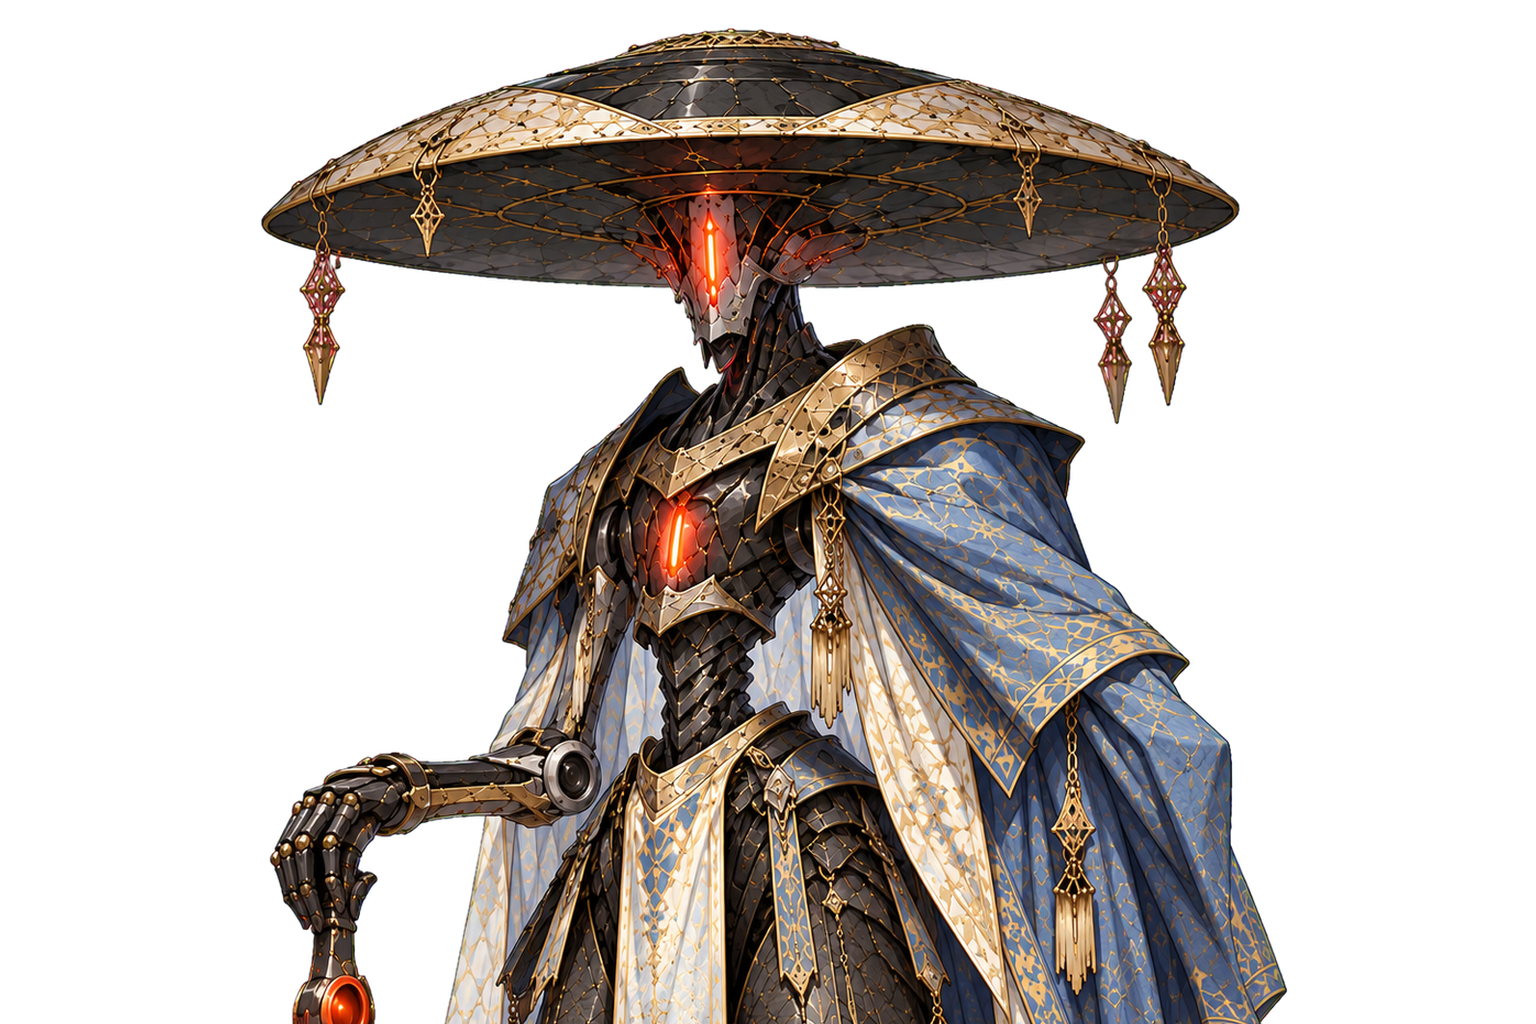
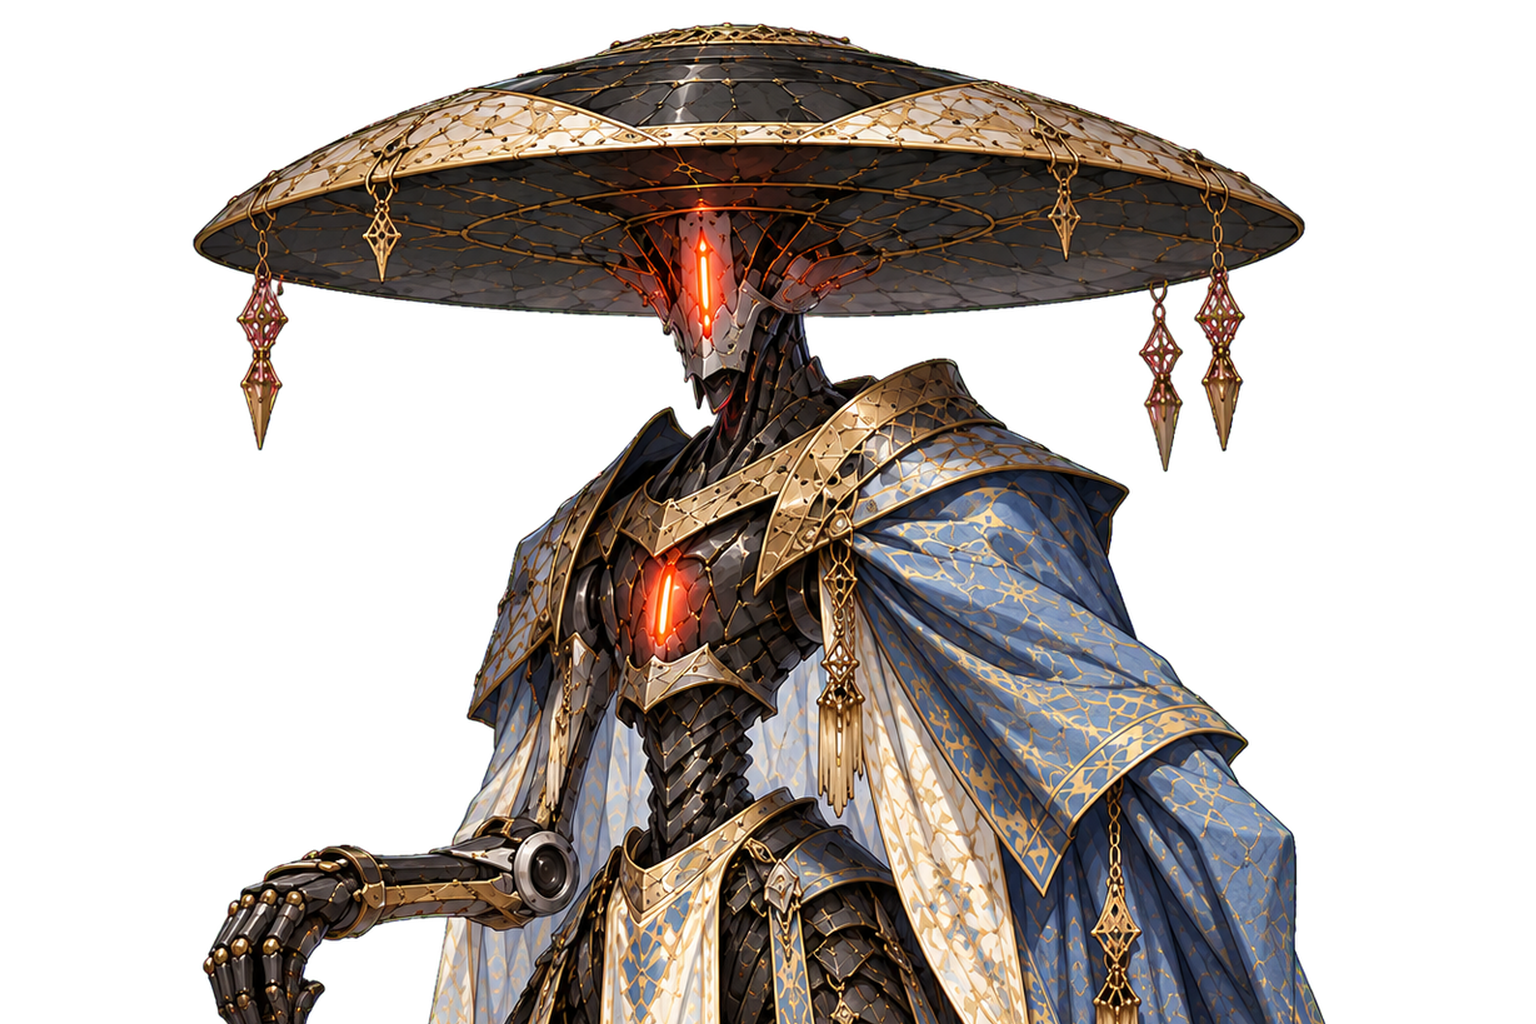
Utsusemi's phase 1 close-up scaled up a little, the whole hat brim still in frame; its intro focus follows the slit-eye

diff --git a/Assets/GameManager.cs b/Assets/GameManager.cs
@@ -1694,7 +1694,7 @@ public class GameManager : MonoBehaviour
         {
             portrait = utsusemiPortrait, closeup = utsusemiCloseup,
             // Framed on its slit-eye, the whole hat brim and its pendants on screen.
-            closeupHeight = 1400f, closeupFocus = new Vector2(0.5f, 0.225f), closeupAt = new Vector2(0f, 90f),
+            closeupHeight = 1400f, closeupFocus = new Vector2(0.5f, 0.246f), closeupAt = new Vector2(0f, 90f),
             // Overdriven: framed between its slit-eye and the open core, the broken hat ringing the top.
             phasePortrait = utsusemiPhasePortrait, phaseCloseup = utsusemiPhaseCloseup, phaseEpithet = Utsusemi.PhaseEpithet,
             // Pulled back as far as the painting allows: its left edge limits it, so the slit-eye sits a little left.
